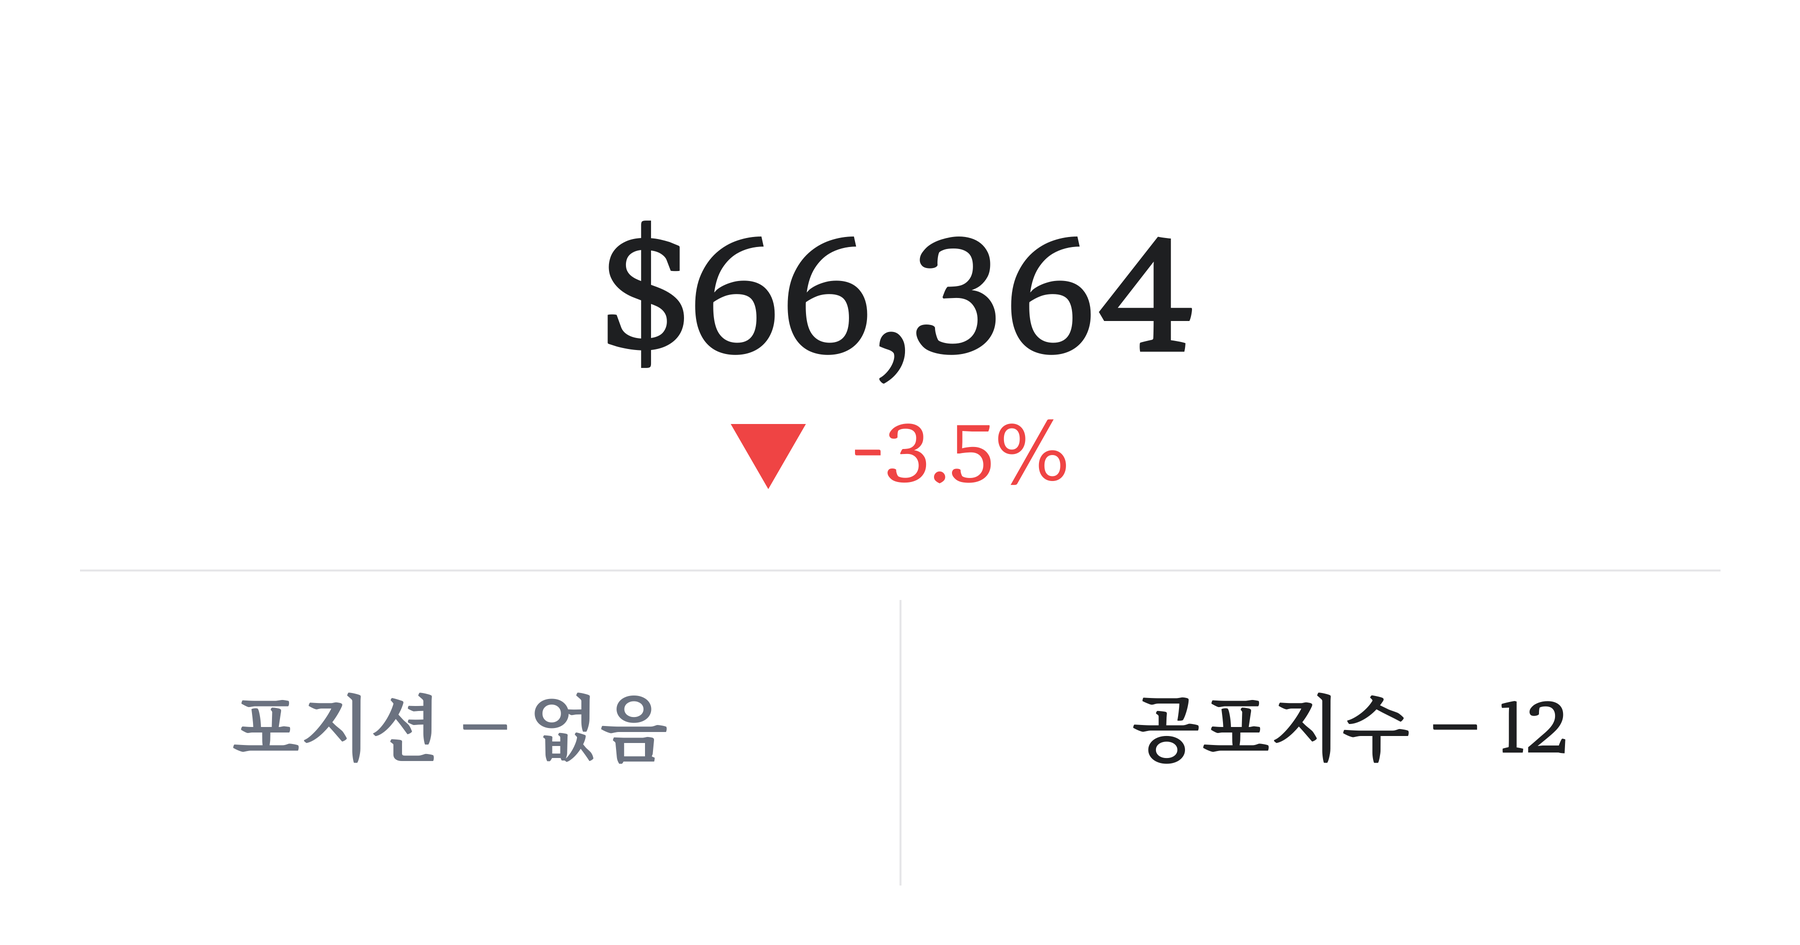
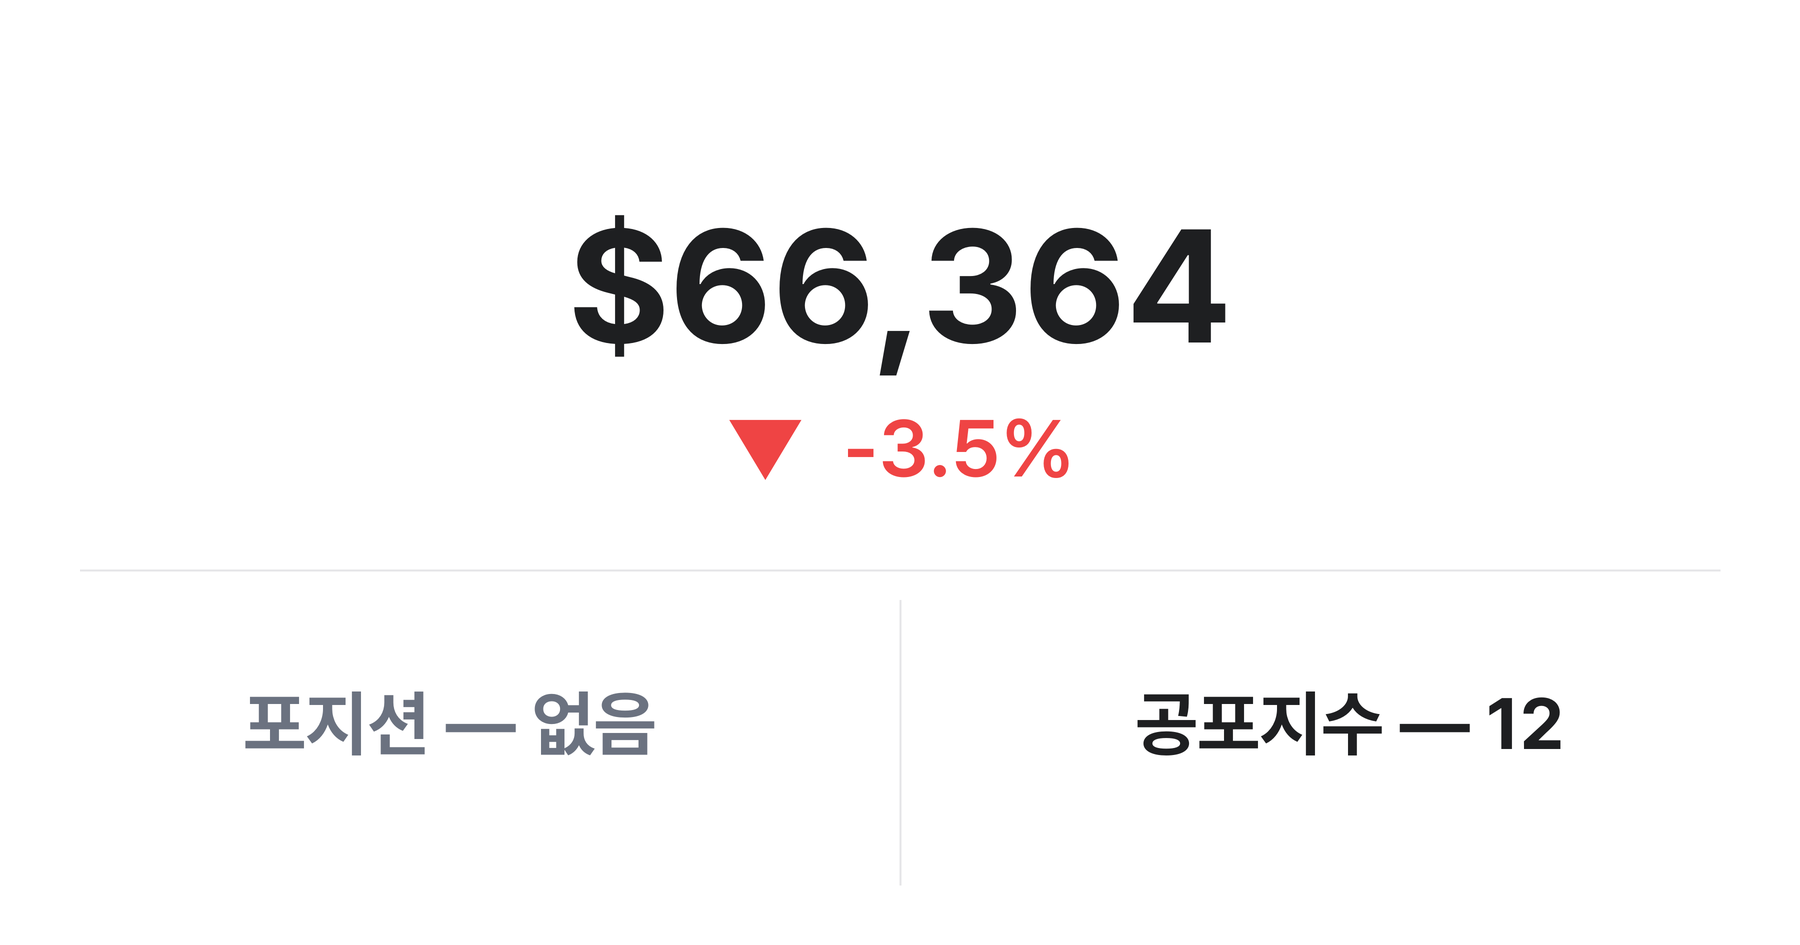
style: 썸네일 폰트 MaruBuri → Pretendard 전환 및 전체 재생성

diff --git a/public/posts/index.html b/public/posts/index.html
@@ -1,8 +1,8 @@
-<!doctype html><html lang=ko id=hELLO><head><meta charset=utf-8><meta name=viewport content="width=device-width,initial-scale=1"><title>Posts — 큐비랩 — 자동매매 시스템의 시장 분석</title><meta name=description content="자동매매 시스템을 직접 개발하고 운용하며, 비트코인 시장 분석과 트레이딩 인사이트를 공유합니다."><meta name=naver-site-verification content="971d4508aba19a4594fc47d7d43039558dc273f7"><meta property="og:title" content="Posts"><meta property="og:description" content="자동매매 시스템을 직접 개발하고 운용하며, 비트코인 시장 분석과 트레이딩 인사이트를 공유합니다."><meta property="og:type" content="website"><meta property="og:url" content="https://qblab.kr/posts/"><meta property="og:site_name" content="큐비랩 — 자동매매 시스템의 시장 분석"><meta property="og:image" content="https://qblab.kr/logo.png"><link rel=preconnect href=https://fonts.googleapis.com><link rel=preconnect href=https://fonts.gstatic.com crossorigin><link rel=stylesheet href="https://fonts.googleapis.com/css2?family=Maru+Buri:wght@300;400;700&display=swap"><link rel=stylesheet href=https://cdn.jsdelivr.net/gh/wan2land/d2coding/d2coding-ligature-full.css><link rel=alternate type=application/rss+xml href=https://qblab.kr/posts/index.xml title="큐비랩 — 자동매매 시스템의 시장 분석"><link rel=icon type=image/png href=/favicon.png><link rel=apple-touch-icon href=/apple-touch-icon.png><link rel=stylesheet href=/css/style.css><script src=/js/theme.js defer></script></head><body><div class=site-wrapper><header class=site-header><div class=header-inner><a href=https://qblab.kr/ class=site-logo><img src=/logo.png alt="큐비랩 — 자동매매 시스템의 시장 분석" class=logo-img>
+<!doctype html><html lang=ko id=hELLO><head><meta charset=utf-8><meta name=viewport content="width=device-width,initial-scale=1"><title>Posts — 큐비랩 — 자동매매 시스템의 시장 분석</title><meta name=description content="자동매매 시스템을 직접 개발하고 운용하며, 비트코인 시장 분석과 트레이딩 인사이트를 공유합니다."><meta name=naver-site-verification content="971d4508aba19a4594fc47d7d43039558dc273f7"><meta property="og:title" content="Posts"><meta property="og:description" content="자동매매 시스템을 직접 개발하고 운용하며, 비트코인 시장 분석과 트레이딩 인사이트를 공유합니다."><meta property="og:type" content="website"><meta property="og:url" content="https://qblab.kr/posts/"><meta property="og:site_name" content="큐비랩 — 자동매매 시스템의 시장 분석"><meta property="og:image" content="https://qblab.kr/logo.png"><link rel=preconnect href=https://fonts.googleapis.com><link rel=preconnect href=https://fonts.gstatic.com crossorigin><link rel=stylesheet href="https://fonts.googleapis.com/css2?family=Maru+Buri:wght@300;400;700&display=swap"><link rel=stylesheet href=https://cdn.jsdelivr.net/gh/wan2land/d2coding/d2coding-ligature-full.css><link rel=alternate type=application/rss+xml href=https://qblab.kr/posts/index.xml title="큐비랩 — 자동매매 시스템의 시장 분석"><link rel=icon type=image/png href=/favicon.png><link rel=apple-touch-icon href=/apple-touch-icon.png><link rel=stylesheet href=/css/style.css><script src=/js/theme.js defer></script></head><body class=is-wide><div class=site-wrapper><header class=site-header><div class=header-inner><a href=https://qblab.kr/ class=site-logo><img src=/logo.png alt="큐비랩 — 자동매매 시스템의 시장 분석" class=logo-img>
 <span class=logo-text>큐비랩</span></a><nav class=site-nav><a href=/ class=nav-link>홈</a>
 <a href=/posts/ class=nav-link>데일리 브리핑</a>
 <a href=/trades/ class=nav-link>매매내역</a>
 <a href=/about/ class=nav-link>소개</a>
 <a href=/tags/ class=nav-link>태그</a></nav><button class=theme-toggle onclick=toggleTheme() aria-label="다크모드 전환">
 <svg class="icon-sun" width="20" height="20" viewBox="0 0 24 24" fill="none" stroke="currentColor" stroke-width="2"><circle cx="12" cy="12" r="5"/><path d="M12 1v2m0 18v2M4.22 4.22l1.42 1.42M18.36 18.36l1.42 1.42M1 12h2m18 0h2M4.22 19.78l1.42-1.42M18.36 5.64l1.42-1.42"/></svg>
-<svg class="icon-moon" width="20" height="20" viewBox="0 0 24 24" fill="none" stroke="currentColor" stroke-width="2"><path d="M21 12.79A9 9 0 1111.21 3 7 7 0 0021 12.79z"/></svg></button></div></header><main class=site-main><div class=list-page><h1 class=list-title>Posts</h1><div class=post-list><article class=post-item><a href=https://qblab.kr/posts/260329-iran-ceasefire-fear-btc-66k/ class=post-link><div class=post-thumb><img src=/images/posts/260329-dashboard.svg alt loading=lazy></div><div class=post-meta><time datetime=2026-03-29>2026-03-29</time></div><h2 class=post-title>[26/03/29] 데일리 브리핑 — 이란 휴전 불확실성과 46일째 극단적 공포, BTC $66K 공방</h2><p class=post-desc>이란 휴전 협상 불확실성이 달러 강세를 부추기고 비트코인은 $66K 지지선에서 공방을 이어가고 있다. 공포탐욕지수가 46일 연속 극단적 공포를 기록하는 가운데, 시장은 방향성을 잃었다.</p><div class=post-tags><span class=tag>#관망</span><span class=tag>#비트코인</span><span class=tag>#BTC</span><span class=tag>#시장분석</span><span class=tag>#자동매매</span><span class=tag>#데일리브리핑</span><span class=tag>#바이낸스</span><span class=tag>#하락장</span><span class=tag>#이란</span><span class=tag>#휴전</span><span class=tag>#극단적공포</span><span class=tag>#공포탐욕지수</span><span class=tag>#DXY</span><span class=tag>#온체인</span></div></a></article><article class=post-item><a href=https://qblab.kr/posts/260328-dxy-100-etf-outflow-btc-66k/ class=post-link><div class=post-thumb><img src=/images/posts/260328-dashboard.svg alt loading=lazy></div><div class=post-meta><time datetime=2026-03-28>2026-03-28</time></div><h2 class=post-title>[26/03/28] 데일리 브리핑 — 달러 100 돌파와 ETF 대규모 유출, BTC $66K 하회</h2><p class=post-desc>달러인덱스가 100을 다시 돌파하고 비트코인 ETF에서 1억 7천만 달러가 유출되면서 BTC가 $66K 아래로 밀렸다. 극단적 공포 국면이 이어지는 가운데, 온체인 축적 신호는 오히려 강화되고 있다.</p><div class=post-tags><span class=tag>#관망</span><span class=tag>#비트코인</span><span class=tag>#BTC</span><span class=tag>#시장분석</span><span class=tag>#자동매매</span><span class=tag>#데일리브리핑</span><span class=tag>#바이낸스</span><span class=tag>#하락장</span><span class=tag>#달러</span><span class=tag>#ETF</span><span class=tag>#공포탐욕지수</span><span class=tag>#관세</span><span class=tag>#DXY</span><span class=tag>#극단적공포</span></div></a></article><article class=post-item><a href=https://qblab.kr/posts/260327-iran-ceasefire-options-expiry-btc-70k/ class=post-link><div class=post-thumb><img src=/images/posts/260327-dashboard.svg alt loading=lazy></div><div class=post-meta><time datetime=2026-03-27>2026-03-27</time></div><h2 class=post-title>[26/03/27] 데일리 브리핑 — 이란 휴전 결렬·$14B 옵션 만기, 비트코인 $70K 사수 실패</h2><p class=post-desc>이란이 미국의 15개 항 휴전안을 거부하며 위험자산 전반에 매도 압력이 확대됐다. 141억 달러 규모 옵션 만기와 맞물려 비트코인은 $70,000 지지선을 하회했다.</p><div class=post-tags><span class=tag>#관망</span><span class=tag>#비트코인</span><span class=tag>#BTC</span><span class=tag>#시장분석</span><span class=tag>#자동매매</span><span class=tag>#데일리브리핑</span><span class=tag>#바이낸스</span><span class=tag>#하락장</span><span class=tag>#이란</span><span class=tag>#지정학</span><span class=tag>#옵션만기</span><span class=tag>#공포탐욕</span><span class=tag>#ETF</span><span class=tag>#온체인</span></div></a></article><article class=post-item><a href=https://qblab.kr/posts/260326-rate-hike-fears-btc-71k/ class=post-link><div class=post-thumb><img src=/images/posts/260326-dashboard.svg alt loading=lazy></div><div class=post-meta><time datetime=2026-03-26>2026-03-26</time></div><h2 class=post-title>[26/03/26] 데일리 브리핑 — 금리인상 우려 부상, 극단적 공포 46일째 비트코인 $71K 공방</h2><p class=post-desc>금리인상 우려가 부상하는 가운데 비트코인은 $71K에서 방향을 탐색 중이다. 공포탐욕지수 극단적 공포 46일 연속, 시스템은 하락 방향에 베팅하고 있다.</p><div class=post-tags><span class=tag>#숏 보유</span><span class=tag>#비트코인</span><span class=tag>#BTC</span><span class=tag>#시장분석</span><span class=tag>#자동매매</span><span class=tag>#데일리브리핑</span><span class=tag>#바이낸스</span><span class=tag>#하락장</span><span class=tag>#금리인상</span><span class=tag>#공포탐욕지수</span><span class=tag>#극단적공포</span><span class=tag>#ETF</span><span class=tag>#온체인</span><span class=tag>#웨일</span></div></a></article><article class=post-item><a href=https://qblab.kr/posts/260325-bitcoin-fomc-hold-mideast-relief-70k/ class=post-link><div class=post-thumb><img src=/images/posts/260325-dashboard.svg alt loading=lazy></div><div class=post-meta><time datetime=2026-03-25>2026-03-25</time></div><h2 class=post-title>[26/03/25] 데일리 브리핑 — FOMC 동결·중동 긴장 완화 속 비트코인 $70K 공방</h2><p class=post-desc>FOMC 금리 동결과 중동 긴장 완화가 교차하는 가운데, 비트코인은 46일째 극단적 공포 구간에 머물고 있다. 시스템이 하락 방향으로 전환한 이유를 분석한다.</p><div class=post-tags><span class=tag>#숏 매수</span><span class=tag>#비트코인</span><span class=tag>#BTC</span><span class=tag>#시장분석</span><span class=tag>#자동매매</span><span class=tag>#데일리브리핑</span><span class=tag>#바이낸스</span><span class=tag>#하락장</span><span class=tag>#FOMC</span><span class=tag>#금리동결</span><span class=tag>#중동</span><span class=tag>#공포탐욕지수</span><span class=tag>#ETF</span><span class=tag>#웨일</span></div></a></article><article class=post-item><a href=https://qblab.kr/posts/260324-bitcoin-auto-long-entry-amid-fear/ class=post-link><div class=post-thumb><img src=/images/posts/260324-dashboard.svg alt loading=lazy></div><div class=post-meta><time datetime=2026-03-24>2026-03-24</time></div><h2 class=post-title>[26/03/24] 데일리 브리핑 — 중동 긴장 완화에 반등, 공포탐욕 28에서 매수 신호</h2><p class=post-desc>중동 긴장 완화 소식에 비트코인이 $70,800으로 반등하며 일주일 만에 $70K를 회복했다. 공포탐욕지수 28의 위축된 심리 속에서 시스템은 상승 방향에 베팅했다.</p><div class=post-tags><span class=tag>#롱 매수</span><span class=tag>#비트코인</span><span class=tag>#BTC</span><span class=tag>#시장분석</span><span class=tag>#자동매매</span><span class=tag>#데일리브리핑</span><span class=tag>#바이낸스</span><span class=tag>#하락장</span><span class=tag>#중동</span><span class=tag>#금리</span><span class=tag>#ETF</span><span class=tag>#온체인</span><span class=tag>#웨일</span><span class=tag>#공포탐욕지수</span></div></a></article><article class=post-item><a href=https://qblab.kr/posts/260323-bitcoin-67800-whale-accumulation/ class=post-link><div class=post-thumb><img src=/images/posts/260323-dashboard.svg alt loading=lazy></div><div class=post-meta><time datetime=2026-03-23>2026-03-23</time></div><h2 class=post-title>[26/03/23] 데일리 브리핑 — FOMC 매파 동결·유가 급등 속 비트코인 6일 연속 하락</h2><p class=post-desc>연준의 매파적 금리 동결과 중동발 유가 급등이 겹치며 비트코인이 6거래일 연속 하락했다. 그러나 온체인에서는 13년 만에 최대 규모의 웨일 축적이 진행 중이다.</p><div class=post-tags><span class=tag>#관망</span><span class=tag>#비트코인</span><span class=tag>#BTC</span><span class=tag>#시장분석</span><span class=tag>#자동매매</span><span class=tag>#데일리브리핑</span><span class=tag>#하락장</span><span class=tag>#FOMC</span><span class=tag>#금리동결</span><span class=tag>#유가</span><span class=tag>#웨일</span><span class=tag>#온체인</span><span class=tag>#ETF</span><span class=tag>#바이낸스</span></div></a></article></div></div></main><footer class=site-footer><div class=footer-inner><p>© 2026 큐비랩. All rights reserved.</p></div></footer></div></body></html>
+<svg class="icon-moon" width="20" height="20" viewBox="0 0 24 24" fill="none" stroke="currentColor" stroke-width="2"><path d="M21 12.79A9 9 0 1111.21 3 7 7 0 0021 12.79z"/></svg></button></div></header><main class=site-main><div class="list-page list-grid"><div class=section-header><h1 class=section-title>데일리 브리핑</h1></div><div class=briefing-grid><a href=https://qblab.kr/posts/260329-iran-ceasefire-fear-btc-66k/ class=briefing-card><div class=briefing-thumb><img src=/images/posts/260329-dashboard.svg alt loading=lazy></div><time class=briefing-date>2026-03-29</time><h3 class=briefing-title>[26/03/29] 데일리 브리핑 — 이란 휴전 불확실성과 46일째 극단적 공포, BTC $66K 공방</h3></a><a href=https://qblab.kr/posts/260328-dxy-100-etf-outflow-btc-66k/ class=briefing-card><div class=briefing-thumb><img src=/images/posts/260328-dashboard.svg alt loading=lazy></div><time class=briefing-date>2026-03-28</time><h3 class=briefing-title>[26/03/28] 데일리 브리핑 — 달러 100 돌파와 ETF 대규모 유출, BTC $66K 하회</h3></a><a href=https://qblab.kr/posts/260327-iran-ceasefire-options-expiry-btc-70k/ class=briefing-card><div class=briefing-thumb><img src=/images/posts/260327-dashboard.svg alt loading=lazy></div><time class=briefing-date>2026-03-27</time><h3 class=briefing-title>[26/03/27] 데일리 브리핑 — 이란 휴전 결렬·$14B 옵션 만기, 비트코인 $70K 사수 실패</h3></a><a href=https://qblab.kr/posts/260326-rate-hike-fears-btc-71k/ class=briefing-card><div class=briefing-thumb><img src=/images/posts/260326-dashboard.svg alt loading=lazy></div><time class=briefing-date>2026-03-26</time><h3 class=briefing-title>[26/03/26] 데일리 브리핑 — 금리인상 우려 부상, 극단적 공포 46일째 비트코인 $71K 공방</h3></a><a href=https://qblab.kr/posts/260325-bitcoin-fomc-hold-mideast-relief-70k/ class=briefing-card><div class=briefing-thumb><img src=/images/posts/260325-dashboard.svg alt loading=lazy></div><time class=briefing-date>2026-03-25</time><h3 class=briefing-title>[26/03/25] 데일리 브리핑 — FOMC 동결·중동 긴장 완화 속 비트코인 $70K 공방</h3></a><a href=https://qblab.kr/posts/260324-bitcoin-auto-long-entry-amid-fear/ class=briefing-card><div class=briefing-thumb><img src=/images/posts/260324-dashboard.svg alt loading=lazy></div><time class=briefing-date>2026-03-24</time><h3 class=briefing-title>[26/03/24] 데일리 브리핑 — 중동 긴장 완화에 반등, 공포탐욕 28에서 매수 신호</h3></a><a href=https://qblab.kr/posts/260323-bitcoin-67800-whale-accumulation/ class=briefing-card><div class=briefing-thumb><img src=/images/posts/260323-dashboard.svg alt loading=lazy></div><time class=briefing-date>2026-03-23</time><h3 class=briefing-title>[26/03/23] 데일리 브리핑 — FOMC 매파 동결·유가 급등 속 비트코인 6일 연속 하락</h3></a></div></div></main><footer class=site-footer><div class=footer-inner><p>© 2026 큐비랩. All rights reserved.</p></div></footer></div></body></html>

diff --git a/public/admin/index.html b/public/admin/index.html
@@ -1,0 +1,64 @@
+<!doctype html>
+<html>
+<head>
+  <meta charset="utf-8" />
+  <meta name="viewport" content="width=device-width, initial-scale=1.0" />
+  <meta name="robots" content="noindex" />
+  <title>Content Manager | 큐비랩</title>
+</head>
+<body>
+  <script src="https://unpkg.com/decap-cms@^3.0.0/dist/decap-cms.js"></script>
+  <script>
+    CMS.registerPreviewStyle("https://fonts.googleapis.com/css2?family=Maru+Buri:wght@300;400;700&display=swap");
+    CMS.registerPreviewStyle("https://cdn.jsdelivr.net/gh/wan2land/d2coding/d2coding-ligature-full.css");
+    CMS.registerPreviewStyle("/css/style.css");
+
+    var PostPreview = createClass({
+      render: function () {
+        var entry = this.props.entry;
+        var title = entry.getIn(["data", "title"], "");
+        var date = entry.getIn(["data", "date"]);
+        var author = entry.getIn(["data", "author"], "");
+        var tags = entry.getIn(["data", "tags"]);
+        var cover = entry.getIn(["data", "cover"], "");
+
+        var dateStr = "";
+        if (date) {
+          var d = new Date(date);
+          dateStr = d.toISOString().slice(0, 10);
+        }
+
+        var tagEls = [];
+        if (tags) {
+          tagEls = tags.toJS().map(function (tag) {
+            return h("span", { className: "tag", key: tag }, "#" + tag);
+          });
+        }
+
+        return h("div", { className: "site-main", style: { maxWidth: "720px", margin: "0 auto", padding: "2rem 1.5rem" } },
+          h("article", { className: "post-single" },
+            h("header", { className: "post-header" },
+              h("h1", { className: "post-title" }, title),
+              h("div", { className: "post-meta" },
+                h("time", {}, dateStr),
+                author ? h("span", { className: "author" }, " · " + author) : null
+              ),
+              h("div", { className: "post-tags" }, tagEls)
+            ),
+            cover
+              ? h("div", { className: "post-cover" },
+                  h("img", { src: this.props.getAsset(cover).toString(), alt: title })
+                )
+              : null,
+            h("div", { className: "post-content" }, this.props.widgetFor("body"))
+          )
+        );
+      },
+    });
+
+    CMS.registerPreviewTemplate("posts", PostPreview);
+    CMS.registerPreviewTemplate("trades", PostPreview);
+    CMS.registerPreviewTemplate("about", PostPreview);
+  </script>
+</body>
+</html>

diff --git a/public/css/style.css b/public/css/style.css
@@ -491,16 +491,19 @@ img {
   pointer-events: none;
 }
 
-/* --- Homepage Layout (wider) --- */
-.is-home .site-main {
+/* --- Wide Layout (homepage + posts list) --- */
+.is-home .site-main,
+.is-wide .site-main {
   max-width: 1080px;
 }
 
-.is-home .header-inner {
+.is-home .header-inner,
+.is-wide .header-inner {
   max-width: 1080px;
 }
 
-.is-home .footer-inner {
+.is-home .footer-inner,
+.is-wide .footer-inner {
   max-width: 1080px;
 }
 

diff --git a/scripts/generate_dashboard.py b/scripts/generate_dashboard.py
@@ -82,8 +82,8 @@ def generate_dashboard(btc_price, btc_change, position, fear_greed, output_path)
     svg = f'''<svg xmlns="http://www.w3.org/2000/svg" viewBox="0 0 {W} {H}" width="{W}" height="{H}">
   <defs>
     <style>
-      @import url('https://fonts.googleapis.com/css2?family=Maru+Buri:wght@400;700&amp;display=swap');
-      text {{ font-family: 'Maru Buri', 'MaruBuri', serif; }}
+      @import url('https://cdn.jsdelivr.net/gh/orioncactus/pretendard@v1.3.9/dist/web/static/pretendard.min.css');
+      text {{ font-family: 'Pretendard', sans-serif; }}
     </style>
   </defs>
 
@@ -147,9 +147,9 @@ def generate_dashboard(btc_price, btc_change, position, fear_greed, output_path)
         FONT_DIR = os.path.expanduser("~/Library/Fonts")
         img = Image.new("RGB", (W * 2, H * 2), "#FFFFFF")
         draw = ImageDraw.Draw(img)
-        fp_bold = ImageFont.truetype(os.path.join(FONT_DIR, "MaruBuri-Bold.ttf"), 320)
-        fp_change = ImageFont.truetype(os.path.join(FONT_DIR, "MaruBuri-SemiBold.ttf"), 160)
-        fp_bottom = ImageFont.truetype(os.path.join(FONT_DIR, "MaruBuri-Bold.ttf"), 144)
+        fp_bold = ImageFont.truetype(os.path.join(FONT_DIR, "Pretendard-Bold.otf"), 320)
+        fp_change = ImageFont.truetype(os.path.join(FONT_DIR, "Pretendard-SemiBold.otf"), 160)
+        fp_bottom = ImageFont.truetype(os.path.join(FONT_DIR, "Pretendard-Bold.otf"), 144)
 
         def cx(text, font):
             bb = draw.textbbox((0, 0), text, font=font)
